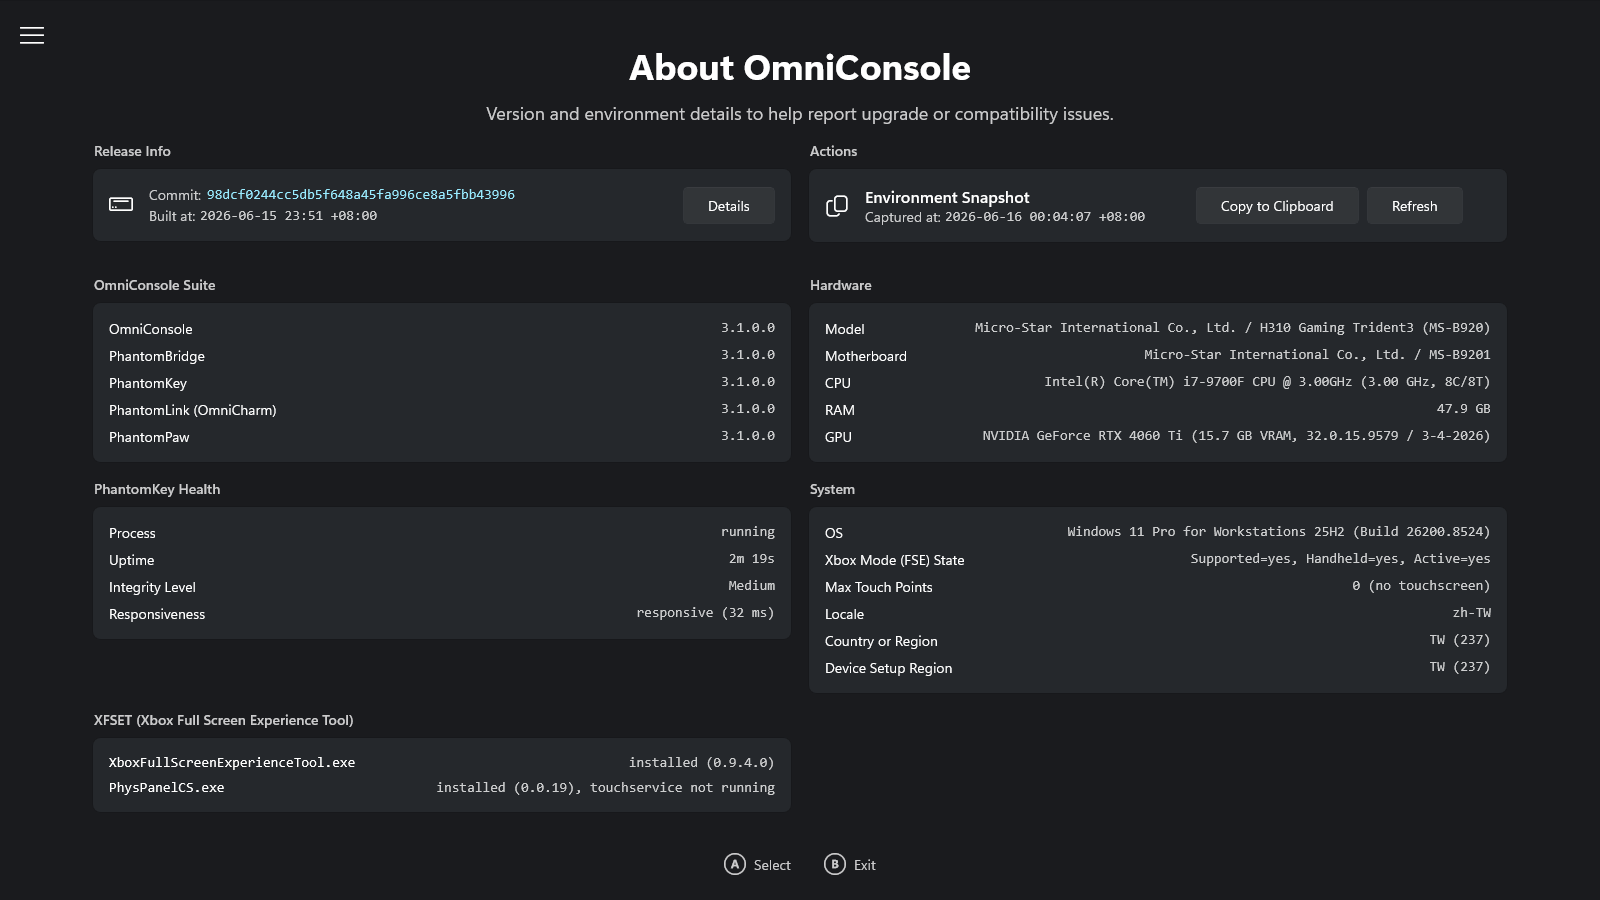
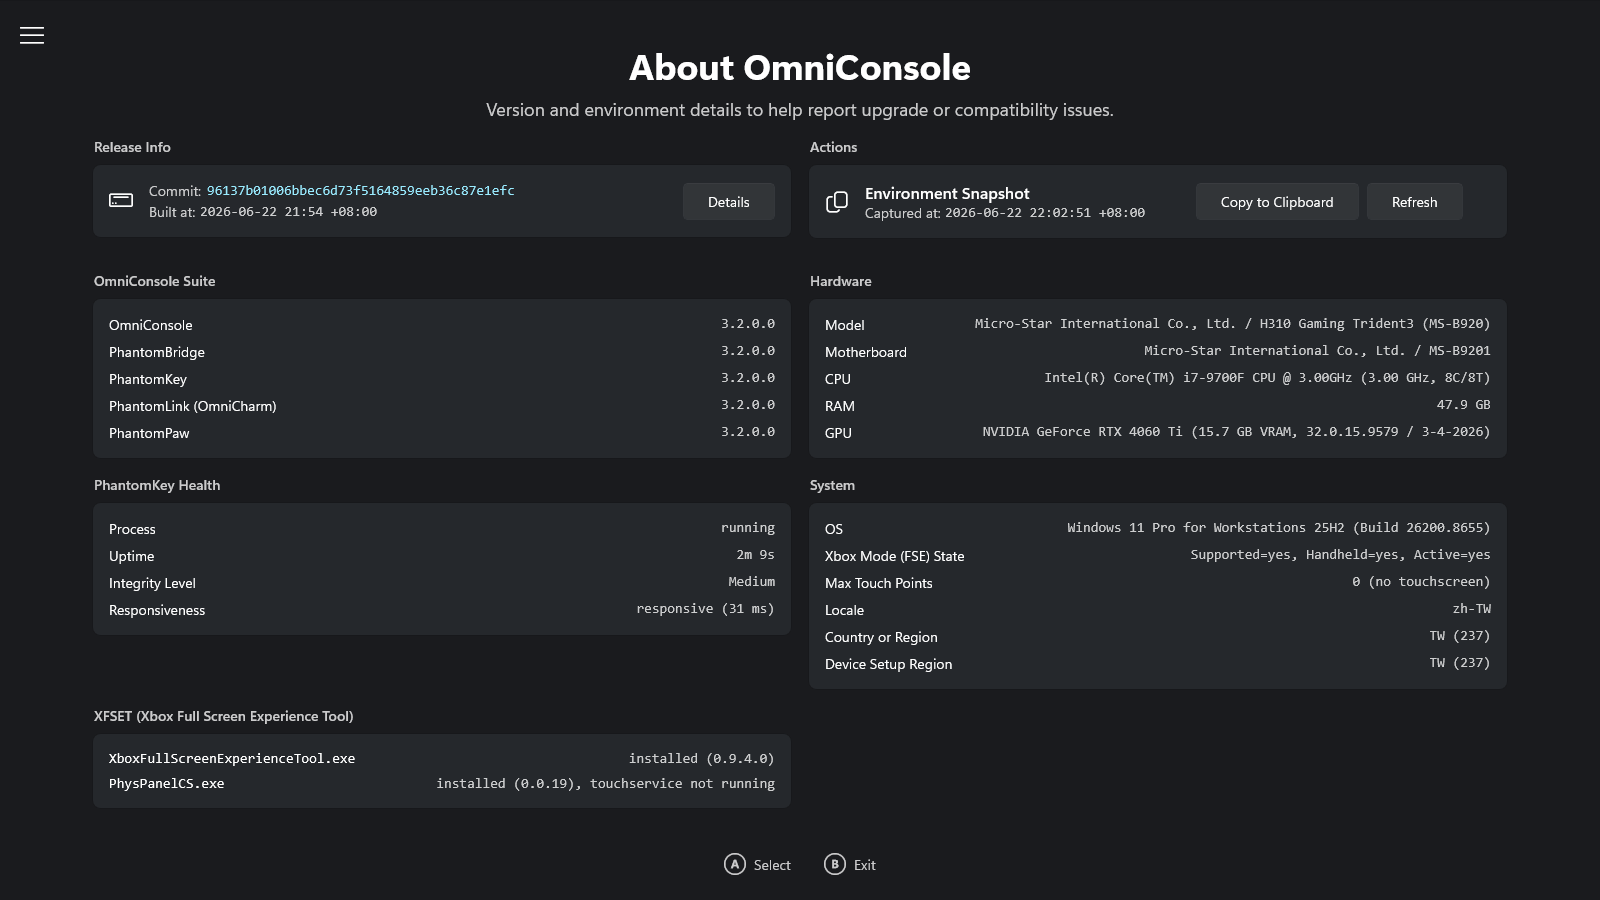
chore: Bump version to 3.2.0.0, refine platform card loading, Settings UI, localization, and refresh documentation

diff --git a/OmniConsole.PhantomLink/Properties/AssemblyInfo.cs b/OmniConsole.PhantomLink/Properties/AssemblyInfo.cs
@@ -21,6 +21,6 @@ using System.Runtime.InteropServices;
 //      修訂編號
 //
 
-[assembly: AssemblyVersion("3.1.0.0")]
-[assembly: AssemblyFileVersion("3.1.0.0")]
+[assembly: AssemblyVersion("3.2.0.0")]
+[assembly: AssemblyFileVersion("3.2.0.0")]
 [assembly: ComVisible(false)]

diff --git a/README.md b/README.md
@@ -43,13 +43,13 @@ Whenever Xbox Mode (FSE) activates, OmniConsole launches your configured gaming 
 - **Gamepad support** – Navigate with **D-Pad** or **Left Stick**; **A** to confirm, **B** to exit, **LB/RB** to switch category tabs, **Y** to add a custom platform, **X** to edit, and **Menu (☰)** to set the focused platform as default and launch it immediately (when running inside Xbox Mode (FSE)).
 - **Gamepad Mouse Mode** – Use your gamepad as a mouse and keyboard. Three modes: **Off**, **Auto** (browsers, File Explorer, Steam, Epic Games Store, Discord), and **Force On** (all apps except an exclusion list). Cursor speed is adjustable, with two controller layouts to choose from: **OmniNav** and **Classic**.
 - **OmniCharm widget** – A Game Bar widget for in-game quick access. Open **Task View**, the **Xbox Library**, or the **Steam Overlay** in one tap; toggle **Gamepad Mouse Mode**, controller layout, cursor speed, and the **Steam In-Game Overlay** (long-press ☰).
-- **Nekomata — custom per-app gamepad mapping** – Nekomata weaves a charm for each app, remapping every XInput input (A/B/X/Y, LB/RB, LT/RT, LS/RS, D-pad, both sticks) to a keyboard key, modifier combo, mouse button, scroll wheel, cursor movement, scrolling, arrow keys, or WASD. Each app's charm can also **prevent double input** — blocking the app's own native XInput and DirectInput signals to keep them from interfering with the remapped keyboard and mouse. Open the editor from the OmniCharm widget's "Customize gamepad mapping for this app…" button.
+- **Nekomata — custom per-app gamepad mapping** – Nekomata weaves a charm for each app, remapping every XInput input (A/B/X/Y, LB/RB, LT/RT, LS/RS, D-pad, both sticks) to a keyboard key, modifier combo, mouse button, scroll wheel, cursor movement, scrolling, arrow keys, or WASD. Each app's charm can also **prevent double input** by blocking the app's own native XInput and DirectInput signals to keep them from interfering with the remapped keyboard and mouse. Open the editor from the OmniCharm widget's "Customize gamepad mapping for this app…" button.
 - **Gamepad Steam shortcuts** – The gamepad **⧉** button controls Steam Big Picture shortcuts: short press opens the **Steam Menu**, long press opens the **Quick Access Menu**. Long press **☰** in-game to open the **Steam In-Game Overlay**.
 - **Dedicated Settings entry** – A separate "**OmniConsole Settings**" entry in All Apps lets you change your default platform anytime.
 - **Native Xbox Mode (FSE) integration** – Registered as a Windows 11 Xbox Mode (FSE) Home App through the official API.
 - **In-app updates** – Automatic checks for the latest GitHub releases, with download and install built into the Advanced settings page.
 - **Multilingual UI** – English, Traditional Chinese (繁體中文), and Simplified Chinese (简体中文).
-- **Community languages** – On the Advanced settings page, click **Manage** next to **Community Languages** to browse, download, and update community-contributed languages — for both the main app and the OmniCharm widget at once — and they stay up to date automatically across versions.
+- **Community languages** – On the Advanced settings page, click **Manage** next to **Community Languages** to browse, download, and update community-contributed languages for both the main app and the OmniCharm widget at once. They stay up to date automatically across versions.
 
 ---
 

diff --git a/README.zh-TW.md b/README.zh-TW.md
@@ -43,7 +43,7 @@ OmniConsole 在 PC 與掌機（ROG Xbox Ally X 等）上作為你的 Windows 11 
 - **手把支援** – 以**方向鍵**或**左搖桿**導覽；**A 鍵**確認、**B 鍵**退出、**LB/RB** 切換分類索引標籤、**Y 鍵**新增自訂平台、**X 鍵**編輯，**Menu（☰）鍵**將聚焦平台設為預設並立即啟動（僅在 OmniConsole 於 Xbox 模式 (FSE) 中執行時可用）。
 - **手把滑鼠模式** – 將手把當作滑鼠與鍵盤使用。三種模式：**關閉**、**自動**（瀏覽器、檔案總管、Steam、Epic Games Store、Discord）與**強制開啟**（所有應用程式，排除清單除外）。游標速度可調，並提供兩種控制器版面配置：**OmniNav** 與 **Classic**。
 - **OmniCharm 小工具** – 遊戲中快速存取的 Game Bar 小工具：一鍵開啟**工作檢視**、**Xbox 媒體櫃**或 **Steam 遊戲內嵌介面**；切換**手把滑鼠模式**、控制器版面、游標速度與 **Steam 遊戲內嵌介面**（長按 ☰）。
-- **貓又 — 自訂各程式手把映射** – 貓又為每個程式編一道咒，將所有 XInput 輸入位（A/B/X/Y、LB/RB、LT/RT、LS/RS、十字鍵、雙搖桿）重新映射為鍵盤按鍵、修飾鍵組合、滑鼠按鍵、滾輪、游標移動、捲動、方向鍵或 WASD。每個程式的咒語還可**避免雙重輸入** — 阻擋該程式自身的原生 XInput 與 DirectInput 訊號，避免與映射後的鍵鼠相互干擾。從 OmniCharm 小工具的「自訂此程式的手把映射…」按鈕進入編輯器。
+- **貓又 — 自訂各程式手把映射** – 貓又為每個程式編一道咒，將所有 XInput 輸入位（A/B/X/Y、LB/RB、LT/RT、LS/RS、十字鍵、雙搖桿）重新映射為鍵盤按鍵、修飾鍵組合、滑鼠按鍵、滾輪、游標移動、捲動、方向鍵或 WASD。每個程式的咒語還可**避免雙重輸入**：阻擋該程式自身的原生 XInput 與 DirectInput 訊號，避免與映射後的鍵鼠相互干擾。從 OmniCharm 小工具的「自訂此程式的手把映射…」按鈕進入編輯器。
 - **手把 Steam 快捷鍵** – 手把 **⧉** 按鍵對應 Steam Big Picture 模式快捷：短按開啟 **Steam 選單**，長按喚出**快速存取選單**。在遊戲中長按 **☰** 可開啟 **Steam 遊戲內嵌介面**。
 - **專屬設定入口** – 「所有應用程式」中獨立的「**OmniConsole 設定**」項目，隨時可更改預設平台。
 - **原生 Xbox 模式 (FSE) 整合** – 透過 Windows 11 Xbox 模式 (FSE) 官方 API 註冊為主畫面應用程式。
